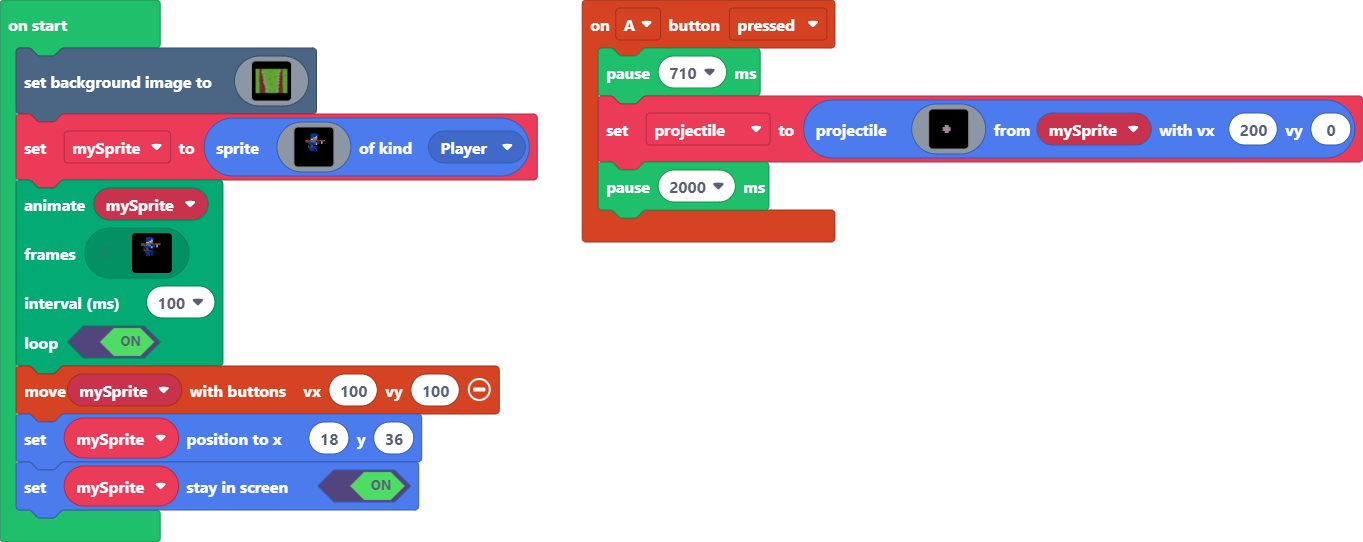
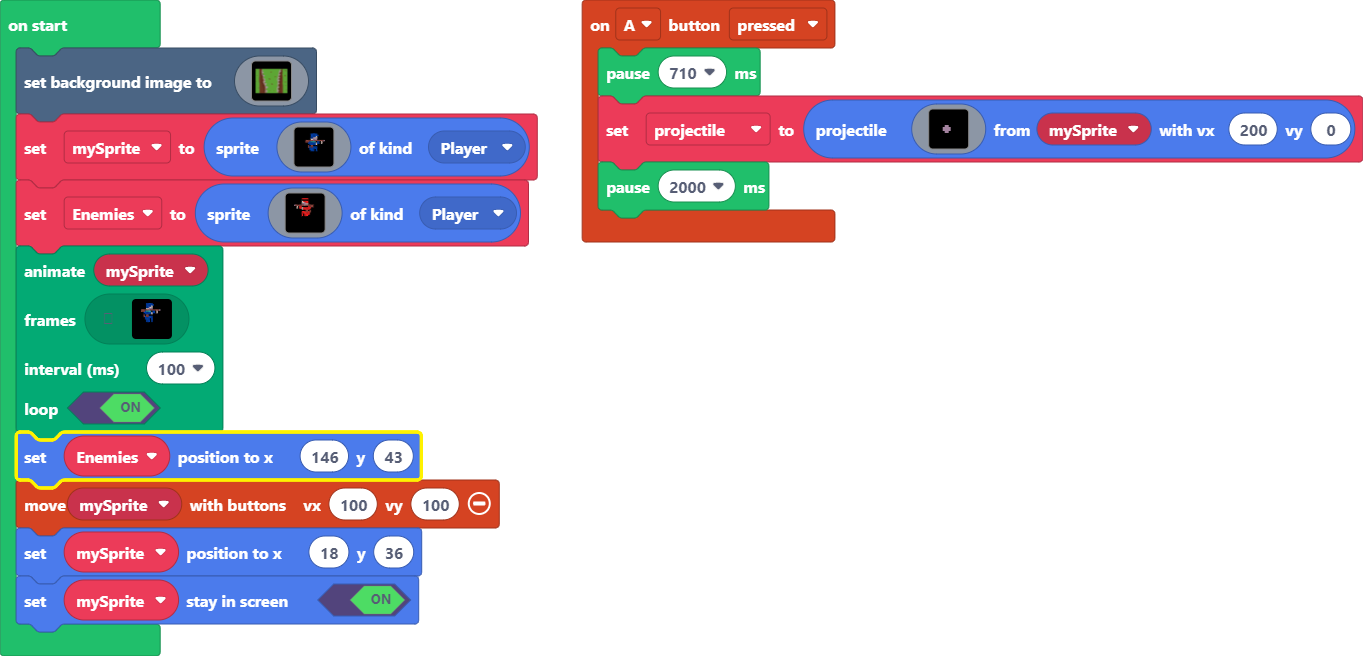
Update main.blocks, main.ts

Changed region(s): [[0.0, 0.0295, 0.4006, 0.9742], [0.4006, 0.0, 1.0, 0.4723]]

diff --git a/main.ts b/main.ts
@@ -171,6 +171,33 @@ mySprite = sprites.create(img`
     .........................
     .........................
     `, SpriteKind.Player)
+let Enemies = sprites.create(img`
+    .........................
+    ..........22222..........
+    .........ffffff..........
+    ..........d2222..........
+    ..........ddb22..........
+    ..........bbbdd..........
+    ....beeeeeeebeeeeee......
+    ......df22fffff2eee......
+    ......df22d222222........
+    ..........d22222.........
+    ..........fffeefe........
+    ..........222ee2e........
+    ..........222222.........
+    ..........2f2222.........
+    ..........2f222f.........
+    ..........ffffff.........
+    ..........ffffff.........
+    ..........ff.ff..........
+    ..........ff.ff..........
+    ..........ff.ff..........
+    ..........ff.ff..........
+    .........ffffff..........
+    .........................
+    .........................
+    .........................
+    `, SpriteKind.Player)
 animation.runImageAnimation(
 mySprite,
 [img`
@@ -203,6 +230,7 @@ mySprite,
 100,
 true
 )
+Enemies.setPosition(146, 43)
 controller.moveSprite(mySprite, 100, 100)
 mySprite.setPosition(18, 36)
 mySprite.setStayInScreen(true)
